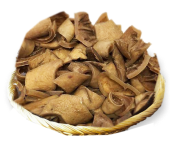
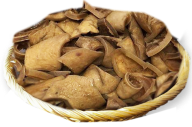
new image edits

diff --git a/products.html b/products.html
@@ -92,7 +92,7 @@
           <div class="col-12 col-md-6">
              <div class="product-wrap">
                 <div class="product-img">                 
-                    <img src="assets/img/egusi.png" alt="cat-fish-product" />
+                    <img src="assets/img/catfish-bg.png" alt="cat-fish-product" />
                 </div>
                 <div class="product-desc">
                   <p>Our products are supplied from our parent company Livestock Farm, 
@@ -104,7 +104,7 @@
           <div class="col-12 col-md-6">
             <div class="product-wrap">
                <div class="product-img">                 
-                   <img src="assets/img/Dried Ponmo.png" alt="cat-fish-product" />
+                   <img src="assets/img/driedponmo-bg.png" alt="cat-fish-product" />
                </div>
                <div class="product-desc">
                  <p>Our products are supplied from our parent company Livestock Farm, 
@@ -116,7 +116,7 @@
          <div class="col-12 col-md-6">
           <div class="product-wrap">
              <div class="product-img">                 
-                 <img src="assets/img/Dried Catfish.png" alt="cat-fish-product" />
+                 <img src="assets/img/egusi-bg.png" alt="cat-fish-product" />
              </div>
              <div class="product-desc">
                <p>Our products are supplied from our parent company Livestock Farm, 
@@ -128,7 +128,7 @@
        <div class="col-12 col-md-6">
         <div class="product-wrap">
            <div class="product-img">                 
-               <img src="assets/img/egusi.png" alt="cat-fish-product" />
+               <img src="assets/img/stockfish-bg.png" alt="cat-fish-product" />
            </div>
            <div class="product-desc">
              <p>Our products are supplied from our parent company Livestock Farm, 
@@ -140,7 +140,7 @@
      <div class="col-12 col-md-6">
       <div class="product-wrap">
          <div class="product-img">                 
-             <img src="assets/img/Dried WhiteFrozen catfish.png" alt="cat-fish-product" />
+             <img src="assets/img/ogbono-bg.png" alt="cat-fish-product" />
          </div>
          <div class="product-desc">
            <p>Our products are supplied from our parent company Livestock Farm, 
@@ -152,7 +152,7 @@
    <div class="col-12 col-md-6">
     <div class="product-wrap">
        <div class="product-img">                 
-           <img src="assets/img/egusi.png" alt="cat-fish-product" />
+           <img src="assets/img/driedponmo-bg.png" alt="cat-fish-product" />
        </div>
        <div class="product-desc">
          <p>Our products are supplied from our parent company Livestock Farm, 
@@ -161,18 +161,7 @@
        </div>
     </div>
  </div>
- <div class="col-12 col-md-6">
-  <div class="product-wrap">
-     <div class="product-img">                 
-         <img src="assets/img/egusi.png" alt="cat-fish-product" />
-     </div>
-     <div class="product-desc">
-       <p>Our products are supplied from our parent company Livestock Farm, 
-         A & A Integrated Livestock Farms and delivered to our customers straight 
-         from the farm.</p>
-     </div>
-  </div>
-</div>
+
           
       </div>
       

diff --git a/index.html b/index.html
@@ -116,7 +116,7 @@
                   <div>
                     <p class="product-name">Egusi</p>
                   </div>
-                  <img src="assets/img/egusi-seed.png" alt="cat-fish-product" />
+                  <img src="assets/img/egusi-grounded.png" alt="cat-fish-product" />
               </div>
 
               <div class="product-item bounce second-product bg-green">
@@ -144,7 +144,7 @@
                 <div>
                   <p class="product-name">Ogbono</p>
                 </div>
-                <img src="assets/img/ogbono.png" alt="cat-fish-product" />
+                <img src="assets/img/ogbono-grounded.png" alt="cat-fish-product" />
               </div>  
             </div>
           </div>
